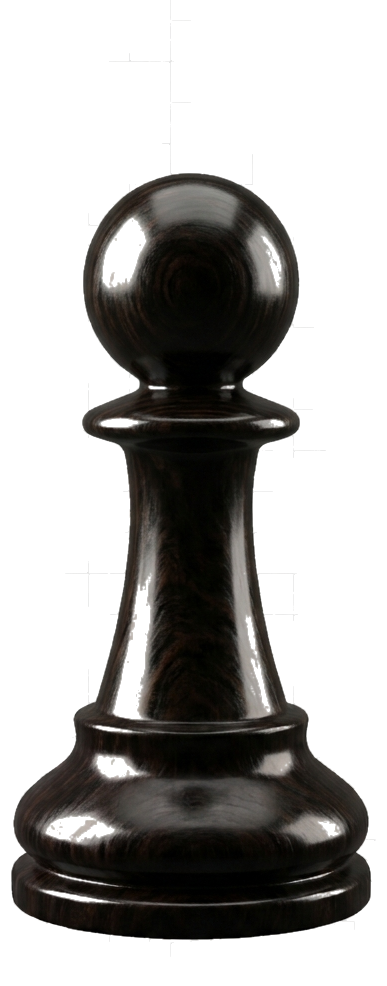
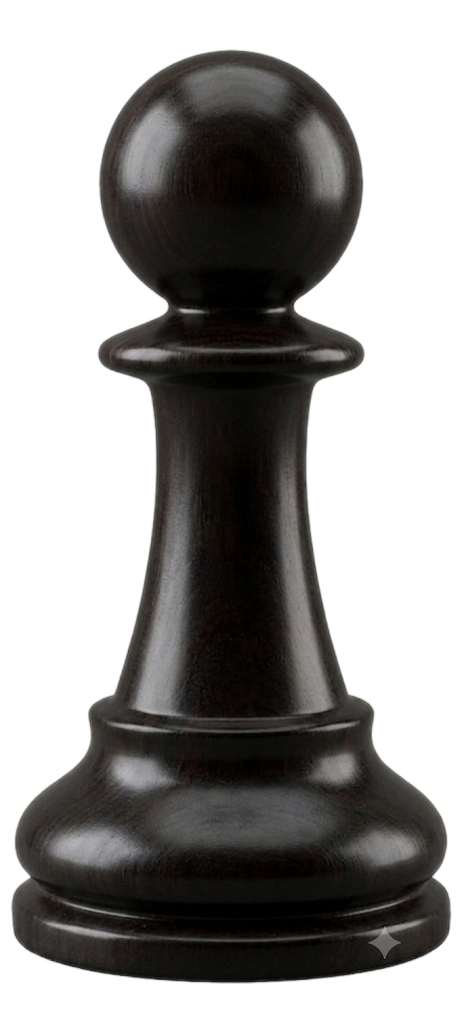
Cavaliers 3/4 vue avec orientation vers le centre, correction couleur cavaliers blancs, mise a jour tour/dame/pion noirs, echiquier agrandi via poignee figee, bouton plein ecran

Changed region(s): [[0.0, 0.0304, 0.9922, 0.9736]]

diff --git a/src/main.js b/src/main.js
@@ -326,3 +326,48 @@ renderLevels();
 renderColors();
 render();
 updateStatus();
+
+// --- Redimensionnement manuel de l'echiquier via poignee (coin du cadre) ---
+const resizeHandle = document.getElementById('resizeHandle');
+let currentCellSize = 95.625;
+
+function applyCellSize(size) {
+  currentCellSize = Math.max(38, Math.min(size, 200));
+  document.documentElement.style.setProperty('--cell-size', currentCellSize + 'px');
+}
+
+if (resizeHandle) {
+  let dragging = false;
+  let startX = 0;
+  let startSize = 76;
+
+  resizeHandle.addEventListener('mousedown', (e) => {
+    dragging = true;
+    startX = e.clientX;
+    startSize = currentCellSize;
+    e.preventDefault();
+  });
+
+  window.addEventListener('mousemove', (e) => {
+    if (!dragging) return;
+    const delta = e.clientX - startX;
+    applyCellSize(startSize + delta / 8);
+  });
+
+  window.addEventListener('mouseup', () => {
+    dragging = false;
+  });
+}
+
+applyCellSize(95.625);
+// --- Bouton plein ecran ---
+const fullscreenBtn = document.getElementById('fullscreenBtn');
+if (fullscreenBtn) {
+  fullscreenBtn.addEventListener('click', () => {
+    if (!document.fullscreenElement) {
+      document.documentElement.requestFullscreen();
+    } else {
+      document.exitFullscreen();
+    }
+  });
+}

diff --git a/src/styles.css b/src/styles.css
@@ -54,7 +54,7 @@ h1 span{ color: var(--gold); }
 }
 .layout::before{
   content:'';
-  width:190px;
+  width:40px;
   flex-shrink:0;
 }
 .board-col{
@@ -64,11 +64,12 @@ h1 span{ color: var(--gold); }
   gap:12px;
   grid-column:2;
   justify-self:center;
+  position:relative;
 }
 #board{
   display:grid;
-  grid-template-columns: repeat(8, minmax(38px, 76px));
-  grid-template-rows: repeat(8, minmax(38px, 76px));
+  grid-template-columns: repeat(8, var(--cell-size, 76px));
+  grid-template-rows: repeat(8, var(--cell-size, 76px));
   border: 3px solid #0f0f0b;
   box-shadow: 0 20px 60px rgba(0,0,0,0.55), 0 0 0 1px rgba(201,162,39,0.15);
   border-radius: 4px;
@@ -106,7 +107,7 @@ h1 span{ color: var(--gold); }
 }
 .coords{
   display:grid;
-  grid-template-columns: repeat(8, minmax(38px, 76px));
+  grid-template-columns: repeat(8, var(--cell-size, 76px));
   font-size:10px;
   color: var(--muted);
 }
@@ -119,7 +120,7 @@ h1 span{ color: var(--gold); }
 }
 .ranks{
   display:grid;
-  grid-template-rows: repeat(8, minmax(38px, 76px));
+  grid-template-rows: repeat(8, var(--cell-size, 76px));
   align-items:center;
 }
 .ranks span{
@@ -198,8 +199,8 @@ header{ text-align:center; position:relative; }
   background: var(--panel);
   border: 1px solid rgba(201,162,39,0.15);
   border-radius: 10px;
-  padding: 20px;
-  width: 190px;
+  padding: 12px;
+  width: 145px;
   display:flex;
   flex-direction:column;
   gap: 18px;
@@ -376,8 +377,24 @@ button:disabled{ opacity:0.4; cursor:not-allowed; }
 .sq.piece-b .ptype-r{ width: 91.8%; height: 91.8%; transform: translateY(8%) scaleX(1.05); }
 
 .sq.piece-b .ptype-p{ width: 78.5%; height: 78.5%; transform: translateY(8%); }
-.sq img[src*='knight-black-front']{ width: 83.2%; height: 83.2%; }
-.sq img[src*='knight-black-back']{ width: 87.4%; height: 87.4%; }
+
+
 
 .sq.piece-w .ptype-b{ width: 96.15%; height: 96.15%; transform: translateY(8%); }
 .sq.piece-b .ptype-b{ width: 99.55%; height: 99.55%; transform: translateY(8%); }
+
+
+.resize-handle{
+  display:none;
+  position:absolute;
+  left:0;
+  bottom:0;
+  width:20px;
+  height:20px;
+  cursor:nesw-resize;
+  background: linear-gradient(225deg, transparent 55%, var(--gold) 55%);
+  border-radius: 0 0 0 6px;
+  z-index: 20;
+  opacity: 0.85;
+}
+.resize-handle:hover{ opacity: 1; }

diff --git a/src/board.js b/src/board.js
@@ -1,35 +1,27 @@
-// Rendu de l'\u00e9chiquier en grille de <div>, avec images 3D des pi\u00e8ces
+// Rendu de l'echiquier en grille de <div>, avec images 3D des pieces
 // et gestion de l'orientation (jouer les blancs ou les noirs).
 
 const PIECE_NAMES = { p: 'pawn', n: 'knight', b: 'bishop', r: 'rook', q: 'queen', k: 'king' };
 const PIECES_BASE_PATH = import.meta.env.BASE_URL + 'assets/pieces/';
 
-function pieceImagePath(piece, playerColor) {
+function pieceImagePath(piece, screenCol) {
   const colorName = piece.color === 'w' ? 'white' : 'black';
-  const typeName = PIECE_NAMES[piece.type];
   if (piece.type === 'n') {
-    const isMine = piece.color === playerColor;
-    const view = isMine ? 'back' : 'front';
-    return PIECES_BASE_PATH + 'knight-' + colorName + '-' + view + '.png';
+    const side = screenCol < 4 ? 'right' : 'left';
+    return PIECES_BASE_PATH + 'knight-' + colorName + '-' + side + '.png';
   }
+  const typeName = PIECE_NAMES[piece.type];
   return PIECES_BASE_PATH + typeName + '-' + colorName + '.png';
 }
 
 const FILES = ['a', 'b', 'c', 'd', 'e', 'f', 'g', 'h'];
 
 function idFromBoardCoords(boardRow, boardCol) {
-  // boardRow/boardCol suivent l'indexation de chess.js .board() : 0 = rang\u00e9e 8, 0 = colonne a
+  // boardRow/boardCol suivent l'indexation de chess.js .board() : 0 = rangee 8, 0 = colonne a
   return FILES[boardCol] + (8 - boardRow);
 }
 
 export class BoardView {
-  /**
-   * @param {Object} opts
-   * @param {HTMLElement} opts.boardEl
-   * @param {HTMLElement} [opts.coordsEl]
-   * @param {HTMLElement} [opts.ranksEl]
-   * @param {(squareId: string) => void} opts.onSquareClick
-   */
   constructor({ boardEl, coordsEl, ranksEl, onSquareClick }) {
     this.boardEl = boardEl;
     this.coordsEl = coordsEl;
@@ -59,17 +51,8 @@ export class BoardView {
       });
     }
   }
-
-  /**
-   * @param {Object} state
-   * @param {import('chess.js').Chess} state.game
-   * @param {string|null} state.selected
-   * @param {string[]} state.legalTargets
-   * @param {{from:string,to:string}|null} state.lastMove
-   * @param {string} state.playerColor - 'w' ou 'b', pour choisir la vue du cavalier
-   */
   render(state) {
-    const { game, selected, legalTargets, lastMove, playerColor } = state;
+    const { game, selected, legalTargets, lastMove } = state;
     this.boardEl.innerHTML = '';
     const boardState = game.board();
     const checkSquare = this.getCheckSquare(game);
@@ -88,7 +71,7 @@ export class BoardView {
         const piece = boardState[boardRow][boardCol];
         if (piece) {
           const img = document.createElement('img');
-          img.src = pieceImagePath(piece, playerColor);
+          img.src = pieceImagePath(piece, screenCol);
           img.alt = piece.type;
           img.className = 'piece-img ptype-' + piece.type;
           img.draggable = false;

diff --git a/index.html b/index.html
@@ -18,6 +18,7 @@
         <div id="board" aria-label="&Eacute;chiquier"></div>
       </div>
       <div class="coords" id="coords"></div>
+      <div class="resize-handle" id="resizeHandle" title="Glisser pour redimensionner"></div>
     </div>
     <div class="panel" id="topPanel">
       <div>
@@ -41,6 +42,7 @@
         <button class="reset hidden-ingame" id="resetBtn">Nouvelle partie</button>
         <button class="secondary hidden-ingame" id="undoBtn" title="Annuler votre dernier coup">Annuler</button>
         <button class="secondary" id="rulesBtn">? Rappel des r&egrave;glements</button>
+        <button class="secondary" id="fullscreenBtn">Plein &eacute;cran</button>
       </div>
     </div>
   </div>